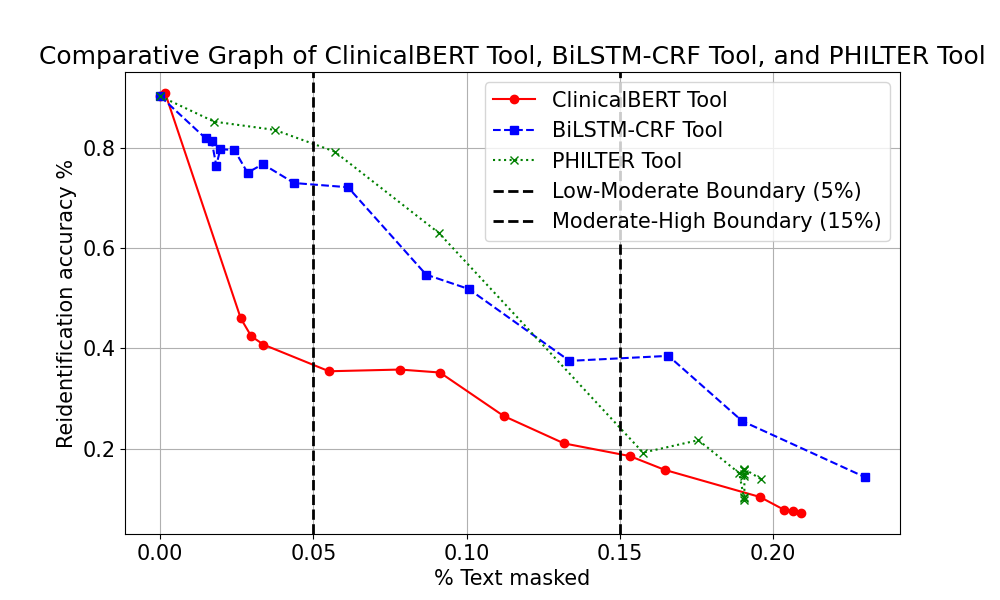
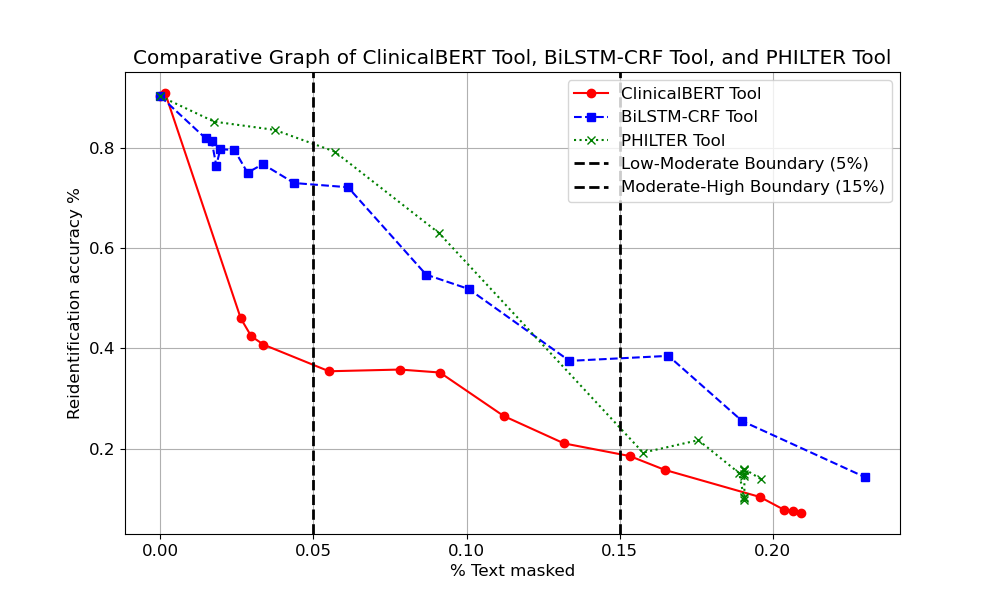
font size reduced

diff --git a/utils/plot_masking_percentage_vs_val_acc_graph.py b/utils/plot_masking_percentage_vs_val_acc_graph.py
@@ -68,7 +68,7 @@ x2, y2 = zip(*BiLSTM_CRF_data)
 x3, y3 = zip(*PHILTER_data)
 
 # Setting plot's parameters
-font = {'size'   : 15}
+font = {'size'   : 12}
 plt.rc('font', **font)
 
 # Plotting the data
